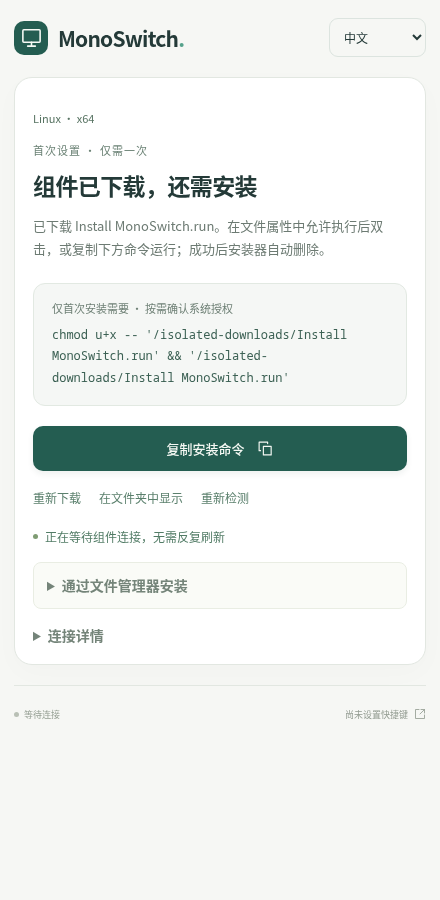
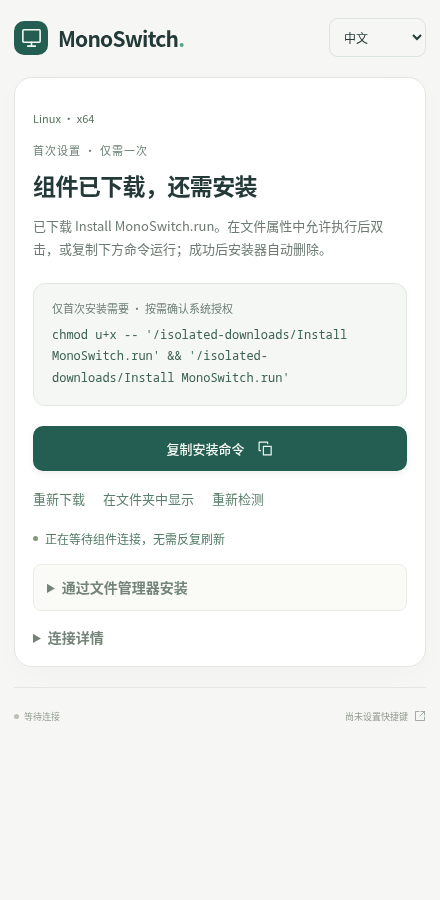
refactor: adapt full page layout to window width

diff --git a/extension/src/App.vue b/extension/src/App.vue
@@ -511,11 +511,13 @@ onUnmounted(() => {
             <Icon name="arrow" :size="20" />
             <div><span class="small-label">{{ t(settings.peer ? '对端' : '待连接') }}</span><strong>{{ settings.peer?.name || t('另一台电脑') }}</strong><small>{{ settings.peer ? platformLabel(settings.peer.platform) : t('首次配对后，自动连接') }}</small></div>
           </div>
+          <div class="control-action">
           <label v-if="display?.inputDetection === 'standard' && settings.peer" class="confirmation"><input v-model="confirmed" type="checkbox" /><span>{{ t('我确认另一台电脑连接在') }}<strong>{{ t(peerLabel) }}</strong>{{ t('。显示器未报告可用接口。') }}</span></label>
           <button v-if="settings.peer && localReady" class="primary-button switch-button" :disabled="!!block || busy || refreshing" @click="switchComputer">
             <span>{{ t(busy ? '正在发送指令…' : `切换到 ${settings.peer.name}`) }}</span><Icon :name="busy ? 'refresh' : 'arrow'" :class="{ spinning: busy }" :size="19" />
           </button>
           <p class="action-hint">{{ t(settings.peer && localReady ? block || (sharingRunning ? '画面、鼠标和键盘一起切换' : '切换画面；键盘与鼠标保持独立。') : localReady ? '在下方完成一次配对，即可切换。' : '先选择这台电脑连接的显示器接口。') }}</p>
+          </div>
           <div v-if="visibleOperation" :class="['message', visibleOperation.state === 'failed' ? 'danger' : 'success']" role="status">
             <Icon :name="visibleOperation.state === 'failed' ? 'info' : 'check'" :size="17" /><span>{{ diagnostic(visibleOperation.state === 'accepted' ? '切换指令已发送，尚未验证画面。可刷新读取当前输入。' : visibleOperation.state === 'pending' ? '上次操作正在发送，请刷新确认状态。' : visibleOperation.message) }}</span>
           </div>
@@ -550,6 +552,10 @@ onUnmounted(() => {
         </div>
 
 
+        <div class="workspace-grid" :class="{ 'setup-pending': !localReady && !sharingRunning }">
+        <SharingPanel v-show="localReady || sharingRunning" :profile="ownProfile" :host="status"
+          @identity="sharingIdentity = $event" @running="sharingRunning = $event" @upgrade="upgrading = true; checkInstallation()" />
+          <div class="settings-stack">
         <details class="panel local-settings" :open="!localReady">
           <summary>{{ t(localReady ? '显示器与接口' : '选择本机接口') }}<span v-if="localReady">{{ display?.name }} · {{ t(inputLabel(display, settings.localInput)) }}</span></summary>
           <p class="privacy-note">{{ t('系统信息由本地服务自动识别') }}</p>
@@ -563,8 +569,6 @@ onUnmounted(() => {
         </details>
         <div v-if="display?.warning" class="message warning">{{ diagnostic(display.warning) }}</div>
         <div v-if="sourceMismatch" class="message danger">{{ t('显示器序列号不一致。请确认两台电脑连接同一显示器后重新导出配置。') }}</div>
-        <SharingPanel v-show="localReady || sharingRunning" :profile="ownProfile" :host="status"
-          @identity="sharingIdentity = $event" @running="sharingRunning = $event" @upgrade="upgrading = true; checkInstallation()" />
         <details class="panel advanced-options">
           <summary>{{ t('更多选项') }}</summary>
           <label class="field"><span>{{ t('电脑名称') }}</span><input v-model="settings.localName" :placeholder="status.platform.hostname" maxlength="60" /></label>
@@ -579,6 +583,8 @@ onUnmounted(() => {
           <p v-if="monitorUnverified" class="privacy-note">{{ t('缺少显示器序列号，无法核对是否为同一台显示器。请按实际接线确认。') }}</p>
           <button v-if="settings.peer && !sharingRunning" class="text-button" @click="settings.peer = null">{{ t('移除另一台电脑') }}</button>
         </details>
+          </div>
+        </div>
       </template>
     </main>
     <footer class="app-footer"><span class="footer-status"><i :class="{ connected: ready }"></i>{{ t(ready ? '本地连接' : '等待连接') }}</span><button class="shortcut" :title="t('设置键盘快捷键')" @click="openShortcuts">{{ t(shortcut) }}<Icon name="external" :size="12" /></button></footer>

diff --git a/extension/src/style.css b/extension/src/style.css
@@ -654,7 +654,8 @@ small {
 .sharing-fields > div > p { font-size: 13px; margin-bottom: 14px; line-height: 1.6; }
 
 /* One surface for first-time setup and everyday switching. */
-.unified-page { width: 680px; max-width: 100vw; min-height: 0; }
+.unified-page { width: 100%; min-height: 100vh; padding: clamp(20px, 3vw, 48px) clamp(20px, 4vw, 64px) 0; }
+.unified-page .demo-banner { margin: 0 0 20px; border-radius: 8px; }
 .unified-page .app-header { margin-bottom: 24px; }
 .unified-page main { display: grid; gap: 14px; }
 .unified-page .panel, .control-summary { margin: 0; padding: 20px; border: 1px solid var(--line); border-radius: 16px; background: #fff; min-width: 0; }
@@ -682,10 +683,30 @@ small {
 .unified-page .app-footer { margin-top: 20px; }
 @media (max-width: 520px) {
   .unified-page { padding: 18px 14px 0; }
-  .unified-page .demo-banner { margin: -18px -14px 20px; }
+  .unified-page .demo-banner { margin: 0 0 20px; }
   .unified-page .panel, .control-summary, .unified-page .setup-content { padding: 18px; }
   .computer-pair { gap: 12px; }
   .computer-pair strong { font-size: 16px; }
   .field-pair { grid-template-columns: 1fr; gap: 0; }
   .sharing-fields { grid-template-columns: minmax(0, 1fr); }
+}
+
+/* Let the workspace use the tab width; keep related settings together. */
+.workspace-grid, .settings-stack { display: grid; gap: 18px; min-width: 0; align-items: start; }
+.workspace-grid > .sharing-panel { margin: 0; }
+.control-action { min-width: 0; }
+.unified-page .privacy-note, .unified-page .action-hint { font-size: 12px; }
+.unified-page .secondary-button, .unified-page .text-button { font-size: 13px; }
+.unified-page .tag, .unified-page .small-label { font-size: 11px; }
+.unified-page .computer-pair small { margin-top: 0; }
+@media (min-width: 960px) {
+  .workspace-grid.setup-pending > .settings-stack { grid-column: 1 / -1; grid-template-columns: minmax(0, 1.6fr) minmax(300px, 1fr); }
+  .workspace-grid { grid-template-columns: minmax(0, 1.6fr) minmax(300px, 1fr); }
+  .control-summary { display: grid; grid-template-columns: minmax(0, 1.6fr) minmax(300px, 1fr); gap: 24px 40px; align-items: center; padding: 32px; }
+  .computer-pair { margin: 0; gap: 28px; }
+  .computer-pair strong { font-size: clamp(22px, 2vw, 32px); }
+  .control-summary > .message { grid-column: 1 / -1; }
+  .unified-page .switch-button { min-height: 54px; font-size: 16px; }
+  .unified-page .sharing-panel { padding: 28px; }
+  .sharing-fields { gap: 28px; }
 }

diff --git a/docs/verification.md b/docs/verification.md
@@ -71,3 +71,9 @@ MONOSWITCH_INPUT_TEST_TOOLS=/path/to/tools cargo test --manifest-path native/Car
 - 100 项扩展单元测试通过，Vue/TypeScript 生产构建和发行包生成通过。
 - 18 项原有浏览器场景通过，包括真实 Rust 组件连接、隔离安装、重新下载、一次配对、跨窗口配置及语言同步。新增 320/440/680 像素中英文单页面场景发现演示条边距溢出，修正后单独复测通过。
 - 更新中英文界面截图；本轮只修改界面，未重新测试两台真实电脑的键鼠或显示器控制。
+
+## 标签页自适应布局（2026-10-20）
+
+- 移除 680px 固定宽度，宽屏使用横向切换区和双栏工作区；960px 以下自动堆叠。接口未配置时优先展示完整设置区。
+- 101 项扩展测试、19 项浏览器场景通过；新增宽度断言单独复测通过，覆盖 320/440/680/960/1440/1920 像素下的中英文、不溢出及分栏行为。
+- 已检查宽屏中英文截图，重新构建发行扩展；未修改本地组件或配对协议。

diff --git a/README.md b/README.md
@@ -125,7 +125,7 @@ BetterDisplay 需要保持运行。内置屏幕、部分 HDMI/转接器或显示
 
 ## 两台电脑配对
 
-点击 Chrome 工具栏中的 MonoSwitch 图标直接打开完整标签页，已打开时切回该页，不再使用小弹窗。安装、接口选择、首次配对和日常切换都在这里完成。已有配置会保留，无需重新配对。
+点击 Chrome 工具栏中的 MonoSwitch 图标直接打开完整标签页，已打开时切回该页，不再使用小弹窗。安装、接口选择、首次配对和日常切换都在这里完成。已有配置会保留，无需重新配对。页面随窗口宽度自动排版：宽屏并列显示键鼠共享与设置，窄屏堆叠为单栏。
 
 1. 两台电脑分别打开扩展，按实际接线选择本机显示器和输入接口。完成后此区域自动收起。
 2. 在接着键鼠的电脑生成配对码，在另一台粘贴并点击「连接并开启共享」（详见上方键鼠共享说明）。
